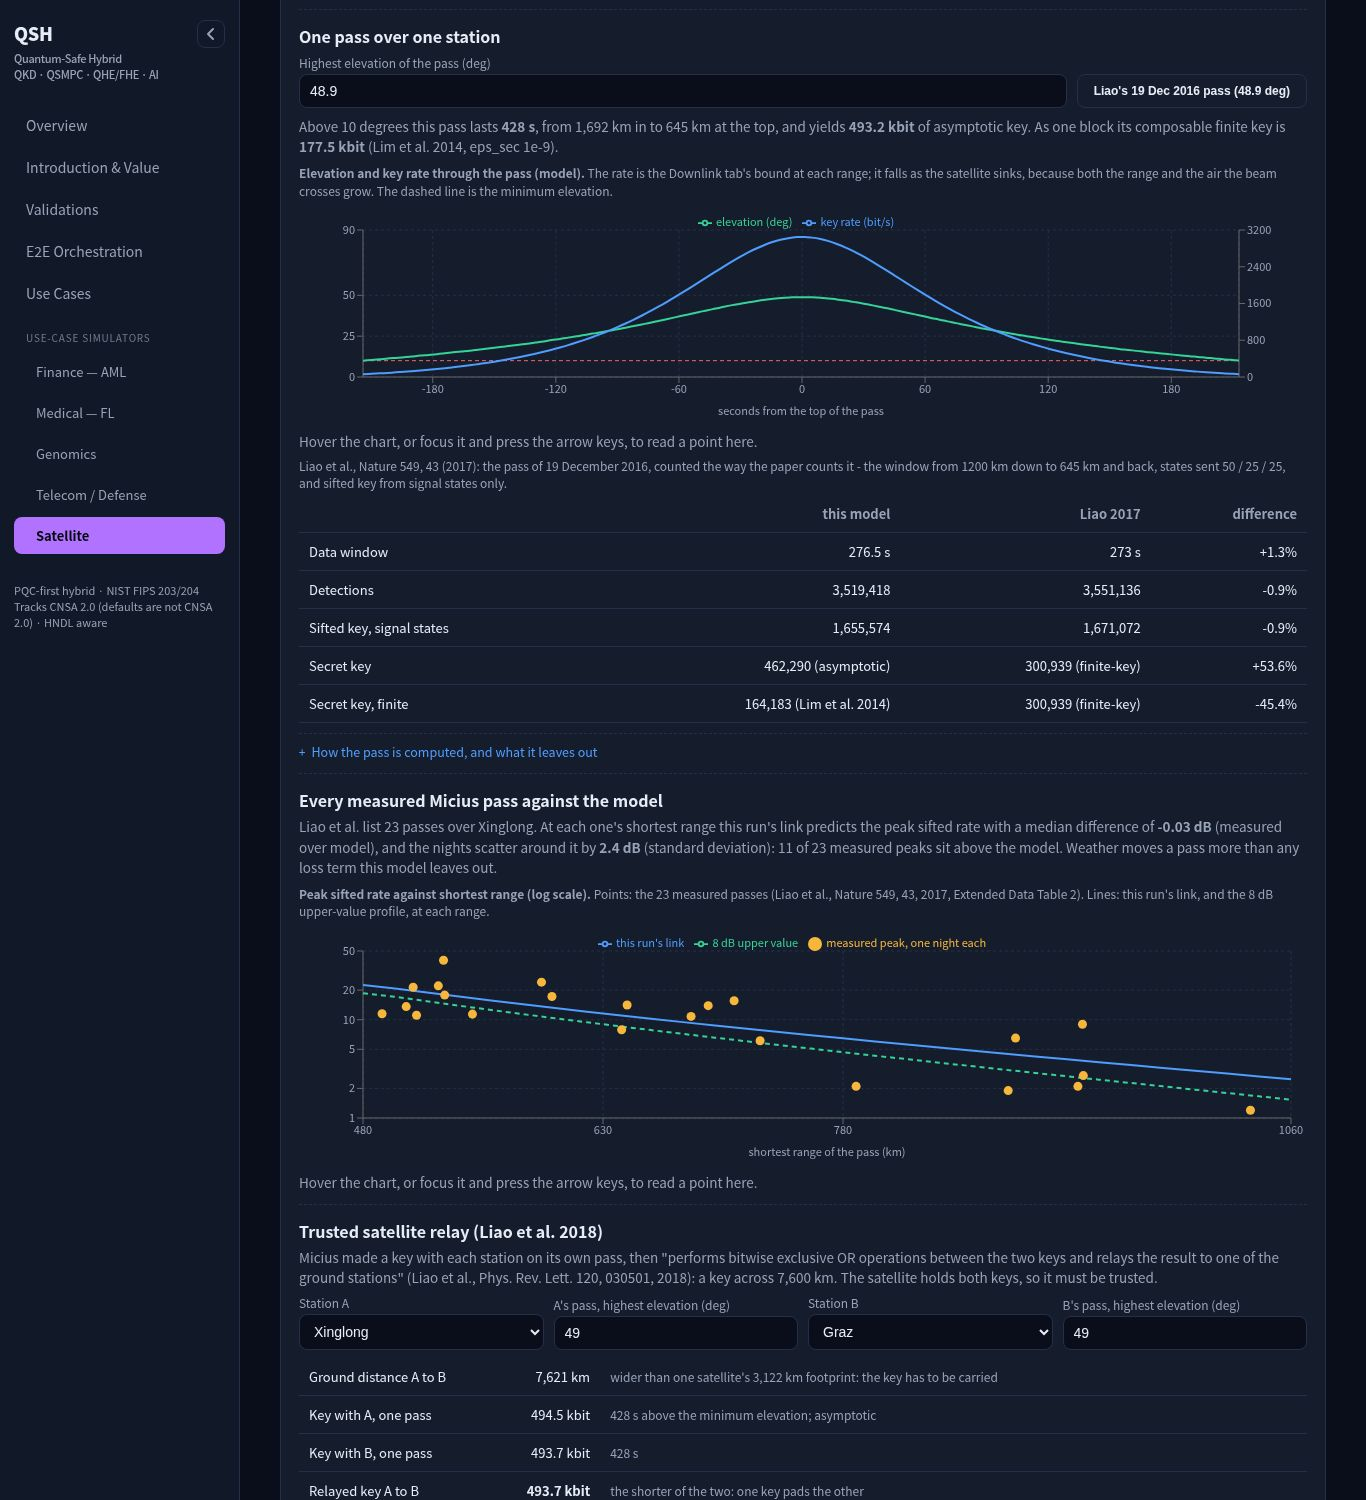
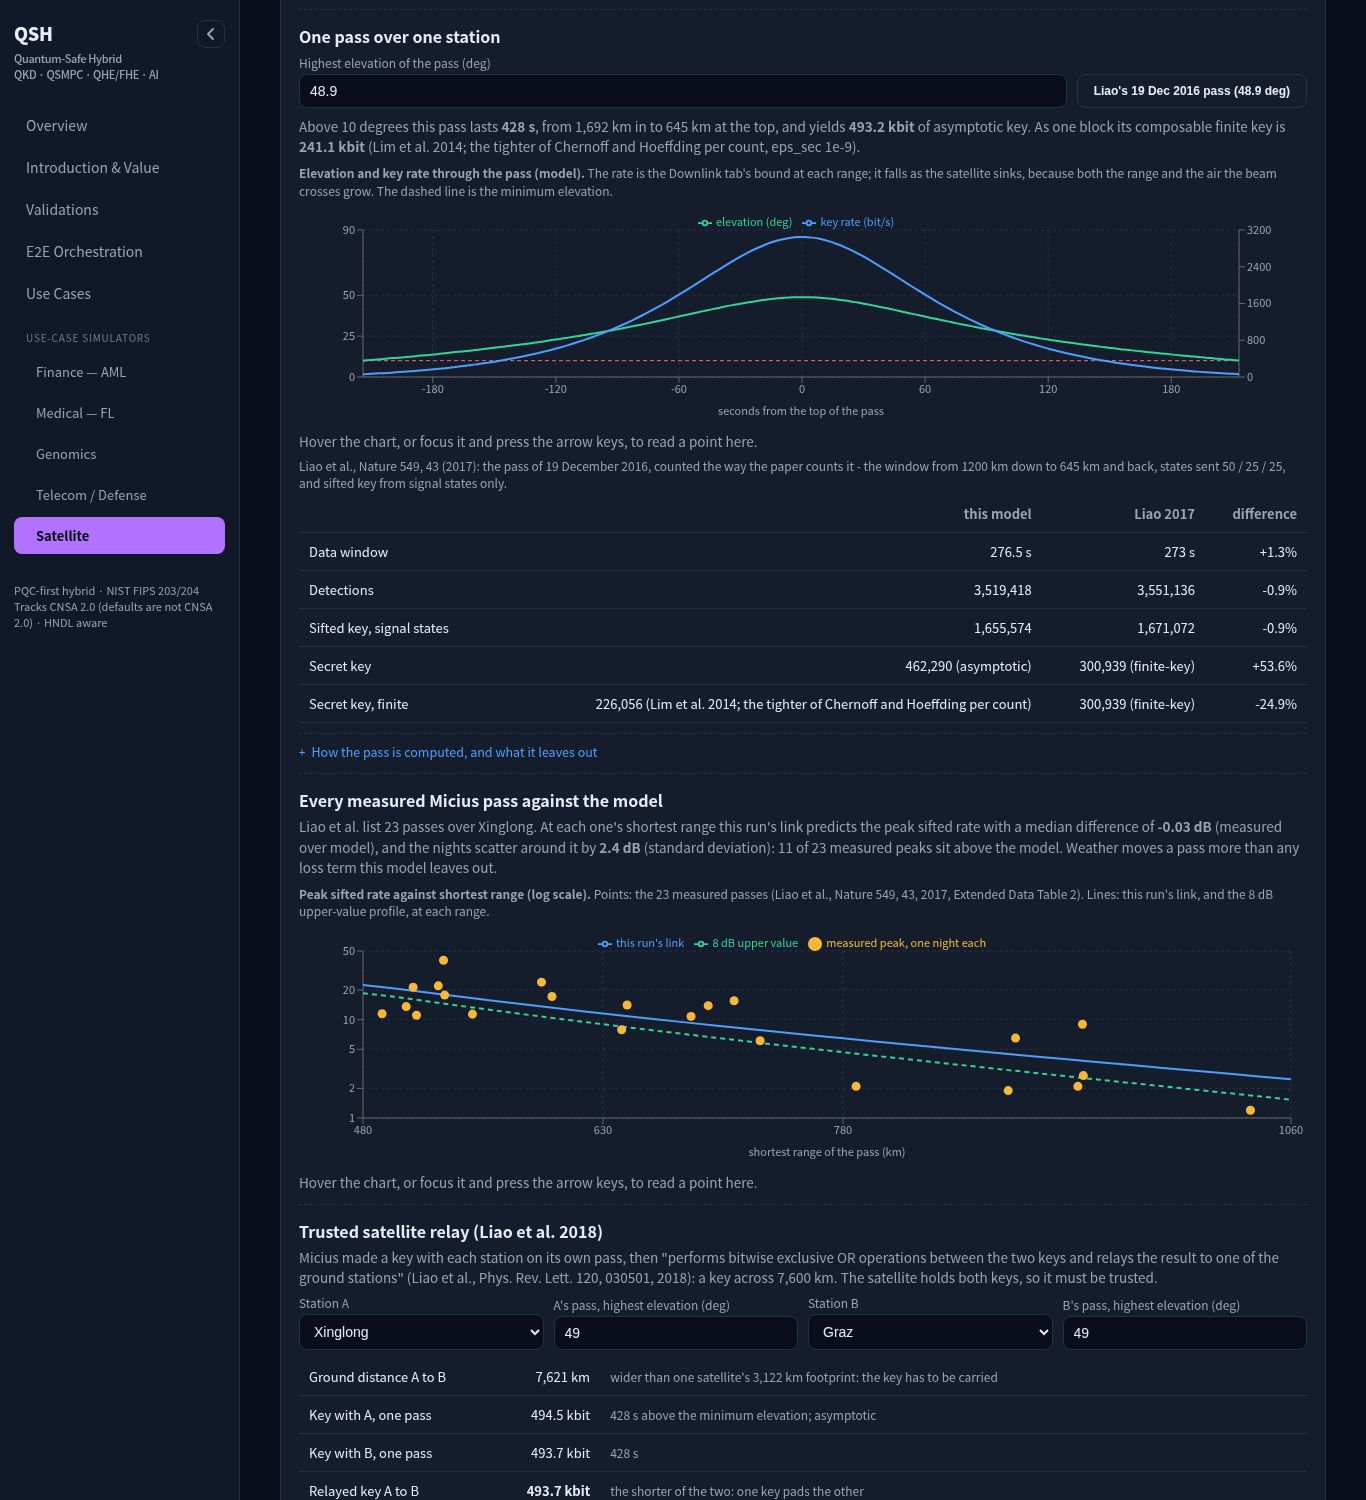
Round 82 walked on the deploy, and the Network tab's screenshot taken from it
CI green on 462c07b (six checks); deployed, the bundle a local build of the commit produced. Walked
in the user's Chrome: the statistics control, the satellite pass under both statistics (139,200 and
91,475 bits) with the facts row naming each, the Network tab's 241.1 kbit and its comparison row,
the telecom key; console clean, nothing stored. The page scan passed all thirteen views against the
deploy in both fonts.

diff --git a/docs/deliverable-verification.md b/docs/deliverable-verification.md
@@ -7163,6 +7163,25 @@ user chose to test that.
 - **Liao, Khmelev, Jinan-1 and the held range** are checked under both statistics.
 - **The browser twin** agrees with Python to 1e-9 on every profile and block, under the default.
 
+**CI green on 508447d (six checks), then deployed (`index-BwItQgIl.js`, the bundle a local
+client-only build of the same commit produced) and walked in the user's Chrome.**
+- **Satellite.** The Parameters panel offers "Finite-key statistics" with its three options, the
+  tighter of the two selected.
+  - The pass peaking at 800 km carries 139,200 bits, and the run reports `qkd_fk_deviation` tighter.
+    The key's facts row reads "Lim et al. 2014 (vacuum + weak decoy), eps_sec 1e-9, the tighter of
+    Chernoff and Hoeffding per count".
+  - Switched to Hoeffding and restarted, the same pass reads 91,475 bits, and the facts row says
+    "Hoeffding, as published". The selection was then restored.
+- **The Network tab.** Liao's pass as one block is 241.1 kbit, named with its statistics, and the
+  comparison row reads 226,056 against Liao's 300,939, -24.9 percent.
+- **Telecom.** 5,214,327 secure bits for the 1e7 block under the default.
+- **Storage, console and tab.** Nothing was stored, the console was clean, and the tab was closed.
+- **The page scan against the deploy.** All thirteen views passed in both fonts.
+
+**The README's screenshots were taken from the deploy and compared.** The satellite Network tab, the
+one page whose content this round changed, is committed. The rest are as they were: four came out
+byte-identical, and the others differ only in measured timings.
+
 BUSINESS DOC RECONCILED Round 82. The out-of-repo document is brought level with this round. Its content
 is not quoted here, in the checklist, or in any commit - only the fact of the reconciliation, which is
 what gate 16 reads.
